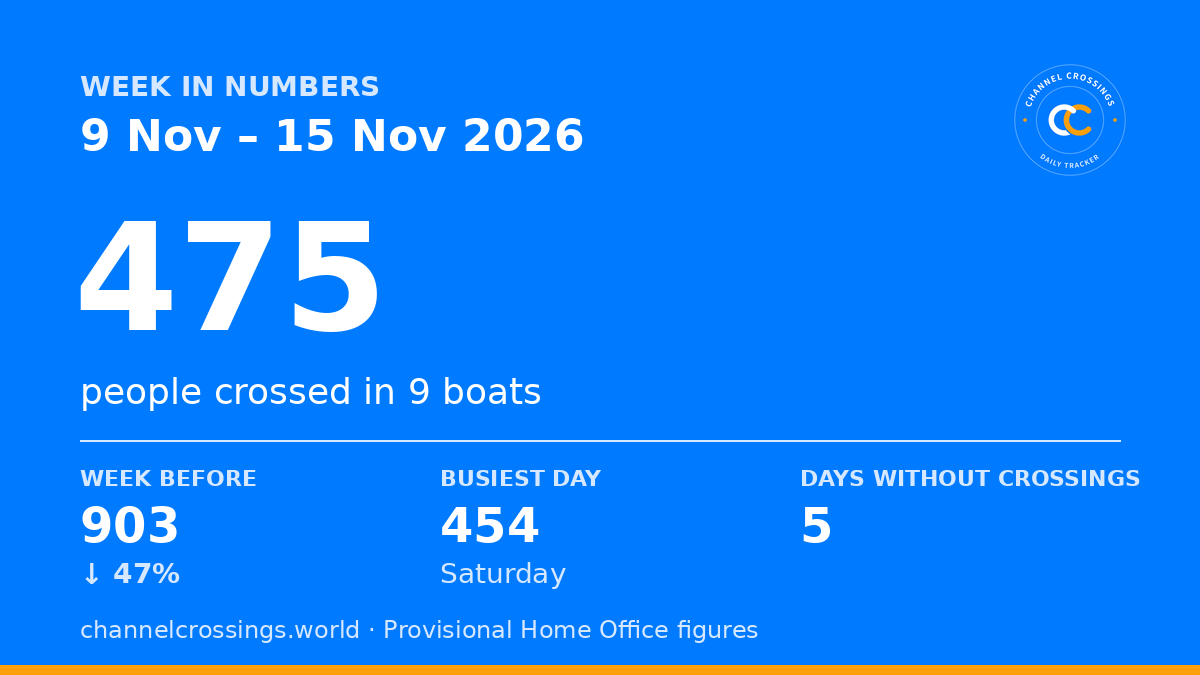
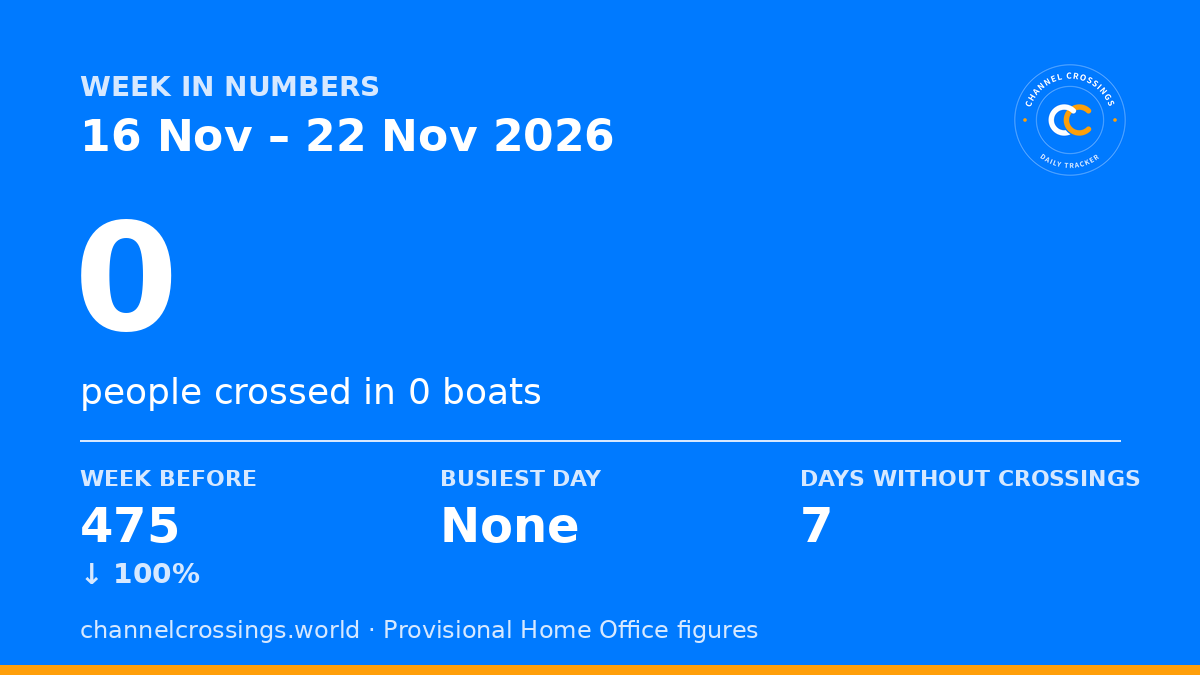
Update crossing figures

diff --git a/index.html b/index.html
@@ -11,7 +11,7 @@ function ccTheme(t){var r=document.documentElement;if(t==="auto")r.removeAttribu
 try{var t=localStorage.getItem("cc-theme");ccTheme(t==="light"||t==="auto"?t:"dark")}catch(e){ccTheme("dark")}</script>
 <script>/* the figures start downloading straight away, while the rest of the page loads */
 try{window.__data=fetch("data.json",{cache:"no-cache"}).then(function(r){if(!r.ok)throw 0;return r.json()});window.__data.catch(function(){})}catch(e){}</script>
-<meta name="description" content="No small boat crossings of the Channel were detected on Sat 21 November. 2026 so far: 23,983. Daily Home Office figures, a migrant tracker.">
+<meta name="description" content="No small boat crossings of the Channel were detected on Sun 22 November. 2026 so far: 23,983. Daily Home Office figures, a migrant tracker.">
 <meta name="robots" content="max-image-preview:large">
 <meta name="format-detection" content="telephone=no">
 <meta name="mobile-web-app-capable" content="yes">
@@ -25,14 +25,14 @@ try{window.__data=fetch("data.json",{cache:"no-cache"}).then(function(r){if(!r.o
 <meta property="og:title" content="Channel Crossings: daily small boat arrivals">
 <meta property="og:description" content="How many people crossed the Channel in small boats yesterday? Daily Home Office figures, records and live Channel conditions.">
 <meta property="og:url" content="https://channelcrossings.world/">
-<meta property="og:image" content="https://channelcrossings.world/og-image.png?v=2026-11-21">
+<meta property="og:image" content="https://channelcrossings.world/og-image.png?v=2026-11-22">
 <meta property="og:image:width" content="1200">
 <meta property="og:image:height" content="630">
 <meta property="og:image:alt" content="Channel Crossings logo with the latest daily arrivals figure">
 <meta name="twitter:card" content="summary_large_image">
 <meta name="twitter:title" content="Channel Crossings: daily small boat arrivals">
 <meta name="twitter:description" content="Daily Home Office figures for small boat arrivals, with records and live Channel conditions.">
-<meta name="twitter:image" content="https://channelcrossings.world/og-image.png?v=2026-11-21">
+<meta name="twitter:image" content="https://channelcrossings.world/og-image.png?v=2026-11-22">
 <link rel="canonical" href="https://channelcrossings.world/">
 <!-- Tells Google this page is a daily dataset. The dates are kept current by scripts/update.py -->
 <script type="application/ld+json">
@@ -55,9 +55,9 @@ try{window.__data=fetch("data.json",{cache:"no-cache"}).then(function(r){if(!r.o
   "isAccessibleForFree": true,
   "keywords": ["small boat crossings", "Channel crossings", "small boat arrivals", "migrant crossings", "boat crossing figures", "English Channel", "small boats", "migration", "UK", "Home Office", "daily statistics"],
   "creator": {"@type": "Organization", "name": "Channel Crossings", "url": "https://channelcrossings.world/", "email": "x.chancrossings@gmail.com"},
-  "temporalCoverage": "2018-01-01/2026-11-21",
+  "temporalCoverage": "2018-01-01/2026-11-22",
   "spatialCoverage": "English Channel, United Kingdom",
-  "dateModified": "2026-11-21",
+  "dateModified": "2026-11-22",
   "distribution": [{"@type": "DataDownload", "encodingFormat": "text/csv", "contentUrl": "https://channelcrossings.world/data.csv"}]
 }
 </script>
@@ -322,7 +322,7 @@ td.r,th.r{text-align:right}
       <div><span>Boats this year</span><b id="boats"></b></div>
       <div><span>Last crossing</span><b id="lc"></b></div>
     </div>
-    <p class="sr" id="heroSr" aria-live="polite">No crossings detected for Saturday, 21 November 2026</p>
+    <p class="sr" id="heroSr" aria-live="polite">No crossings detected for Sunday, 22 November 2026</p>
   </section>
 
   <section class="p tape">
